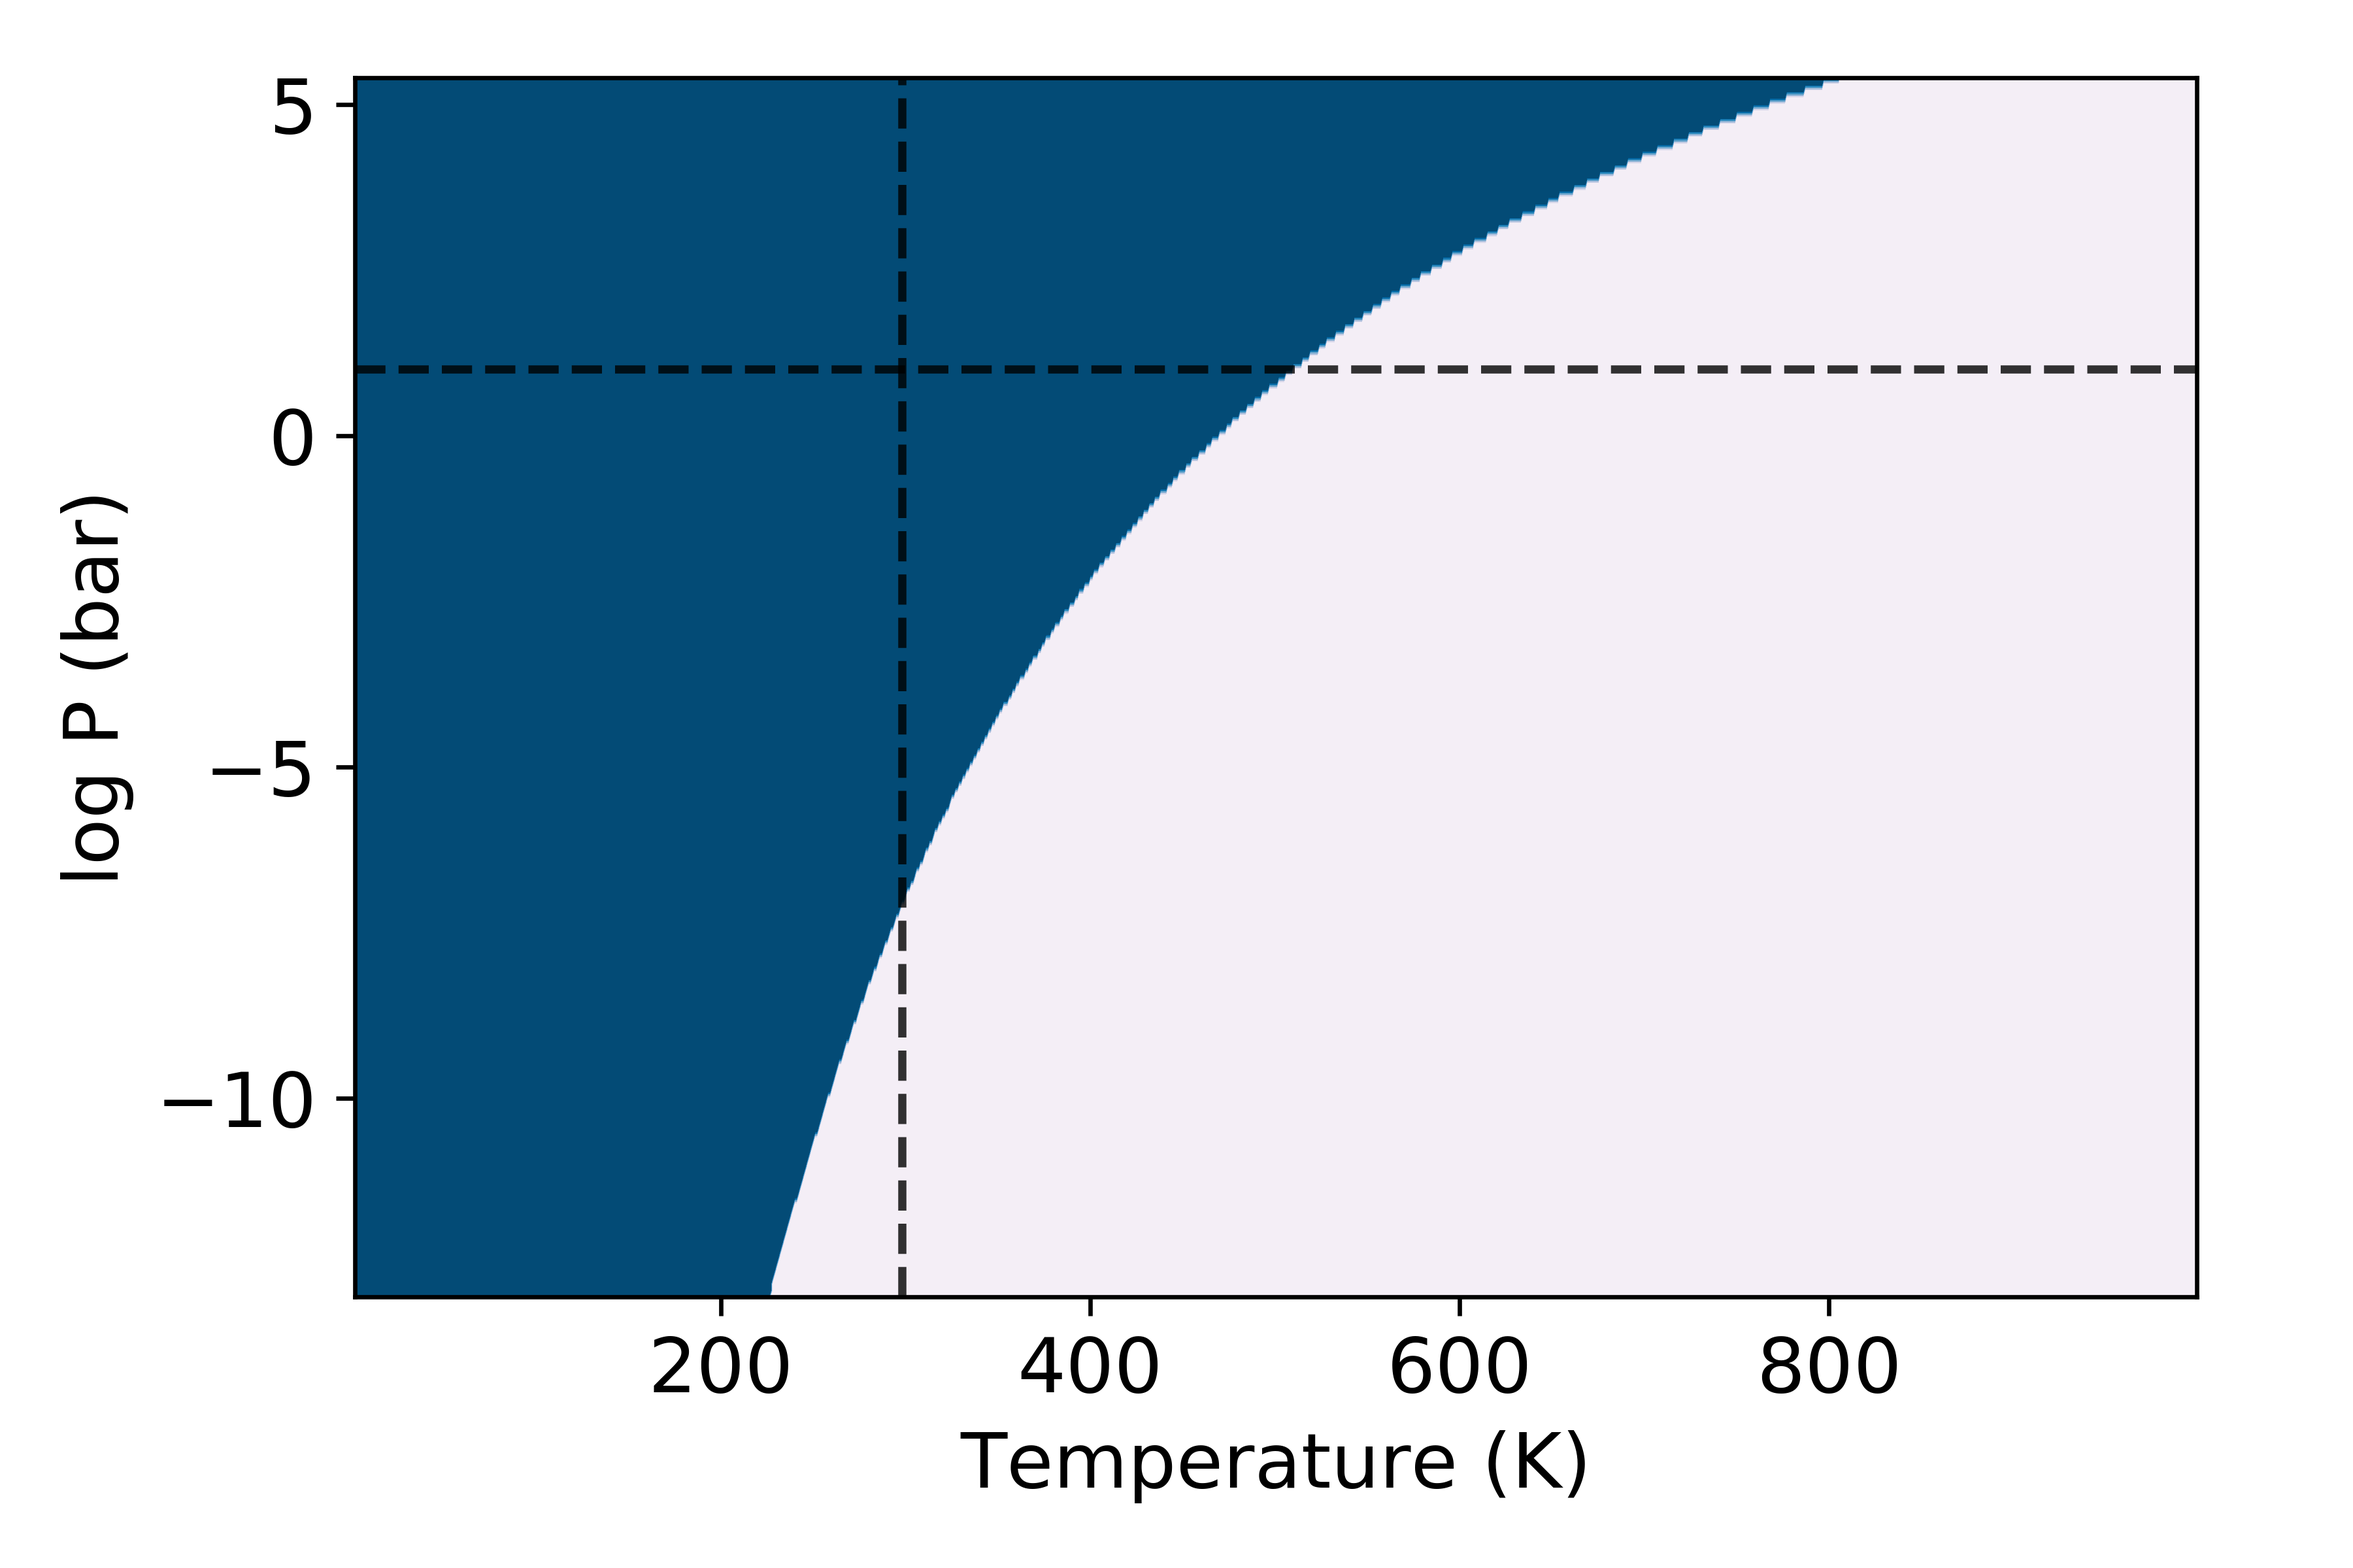
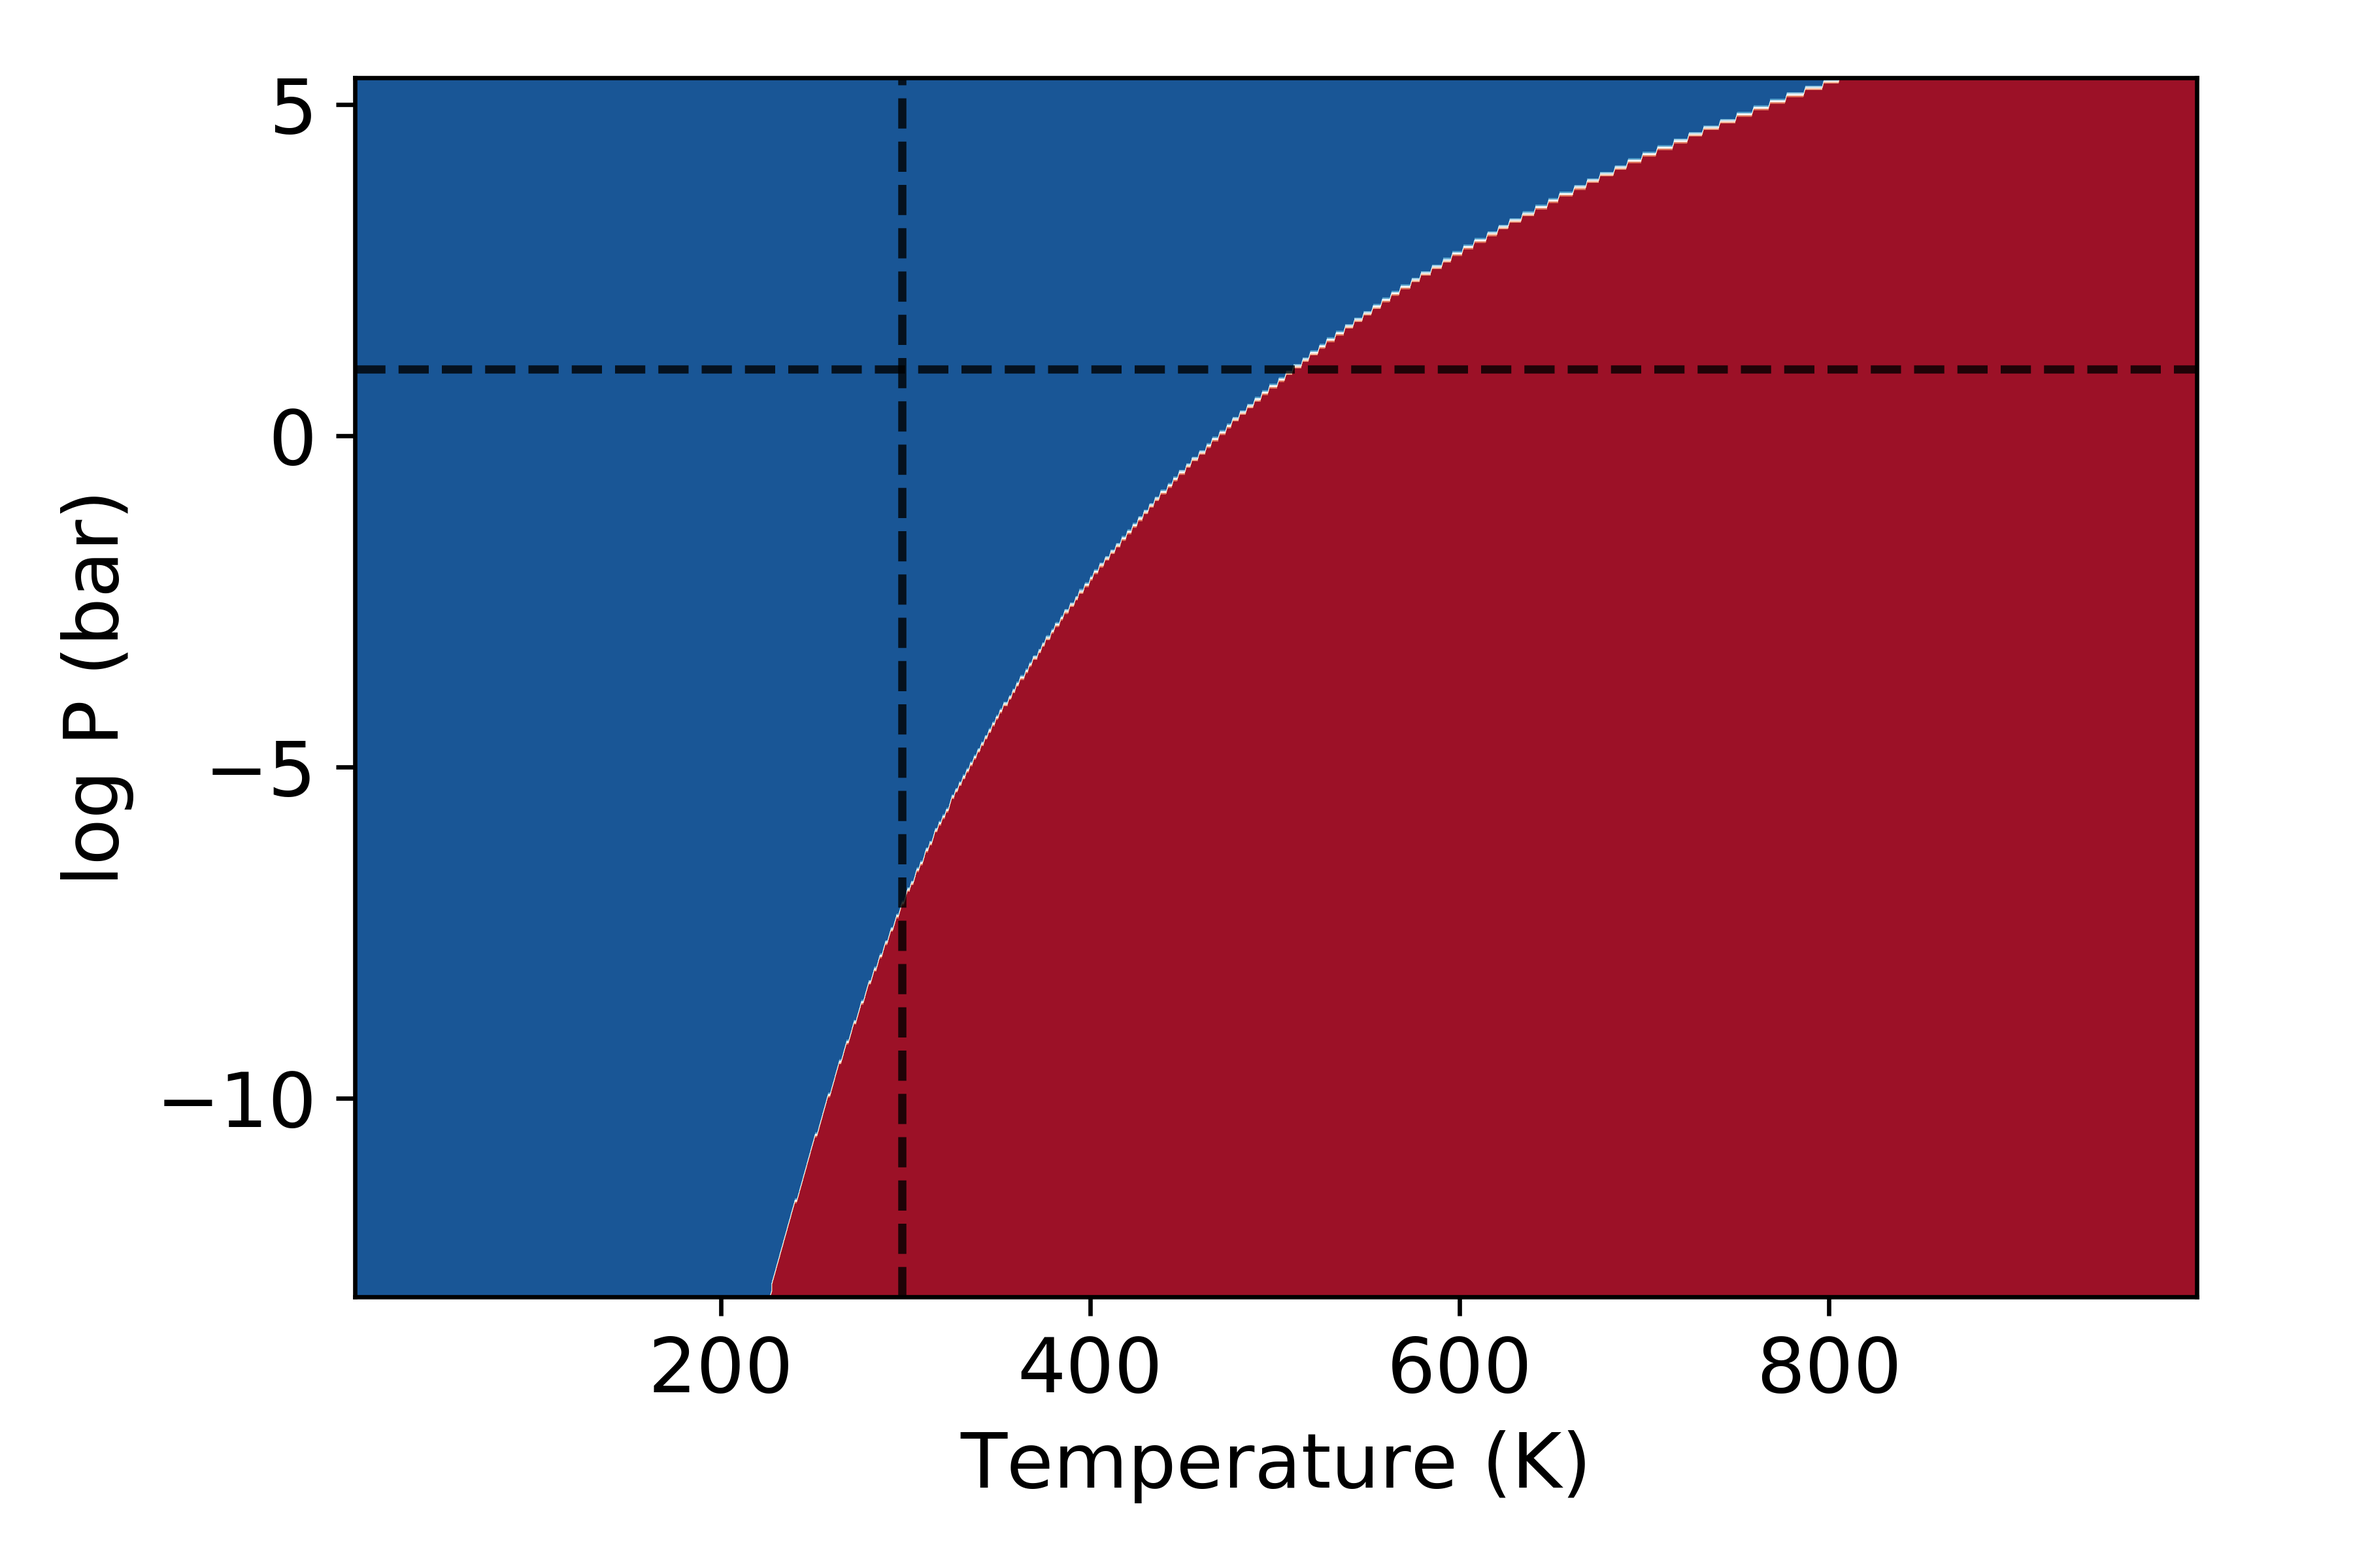
README

diff --git a/surfinpy/pvt_plot.py b/surfinpy/pvt_plot.py
@@ -17,7 +17,7 @@ class PVTPlot:
         self.y = y
         self.z = z
 
-    def plot(self, output="Phase.png", colourmap="RdBu",
+    def plot(self, output="Phase.png", colourmap="RdBu", set_style="ggplot",
              atmospheric_conditions=[1.0, 298.15]):
         """plots phase diagram
 
@@ -30,6 +30,7 @@ class PVTPlot:
         atmospheric_conditions : list
             location of bars showing atmospheric conditions
         """
+        plt.style.use(set_style)
         fig = plt.figure()
         ax = fig.add_subplot(111)
         ax.contourf(self.x, self.y, self.z, cmap=colourmap)        

diff --git a/README.rst b/README.rst
@@ -1,5 +1,5 @@
-
-
+# SurfinPy
+  
 .. image::  https://readthedocs.org/projects/surfinpy/badge/?version=latest
     :target: https://surfinpy.readthedocs.io/en/latest/
     :alt: Documentation Status
@@ -7,6 +7,27 @@
 .. image:: https://travis-ci.com/symmy596/SurfinPy.svg?branch=master
     :target: https://travis-ci.com/symmy596/SurfinPy
     :alt: Build Status
+
+.. image:: https://coveralls.io/github/symmy596/SurfinPy
+    :target: https://coveralls.io/repos/github/symmy596/SurfinPy/badge.svg
+    :alt: Coverage Status
+
+.. image:: https://img.shields.io/badge/Version-0.2.2-blue.svg?maxAge=2592000
+    :target: https://img.shields.io/badge/Version-0.2.2-blue.svg?maxAge=2592000
+    :alt: Version
+
+.. image:: https://img.shields.io/badge/contributions-welcome-brightgreen.svg?style=flat
+    :target: https://github.com/symmy596/Surfinpy/issues
+    :alt: Issues
+
+.. image:: http://img.shields.io/badge/license-MIT-brightgreen.svg
+    :target: http://opensource.org/licenses/MIT
+    :alt: License
+
+.. image:: https://img.shields.io/badge/Made%20with-Python-1f425f.svg
+    :target: https://www.python.org/
+    :alt: made-with-python
+
 
 This is the documentation for the open-source python project, `surfinpy`.
 A library designed to facilitate the generation of publication ready surface phase diagrams from ab initio calculations.
@@ -114,3 +135,14 @@ workflow while core developers use branches in the main repository:
 
 
 For further information please contact Adam Symington, ars44@bath.ac.uk
+
+  
+### Author
+
+* Adam R.Symington
+  
+### Acknowledgements
+  
+* [Prof Stephen C.Parker](http://people.bath.ac.uk/chsscp/) - (Bath University)
+* Joshua Tse (Huddersfield Uniersity)
+

diff --git a/docs/source/index.rst b/docs/source/index.rst
@@ -1,5 +1,5 @@
-surfinpy documentation
-======================
+surfinpy
+========
 
 .. include:: ../README.rst
 
